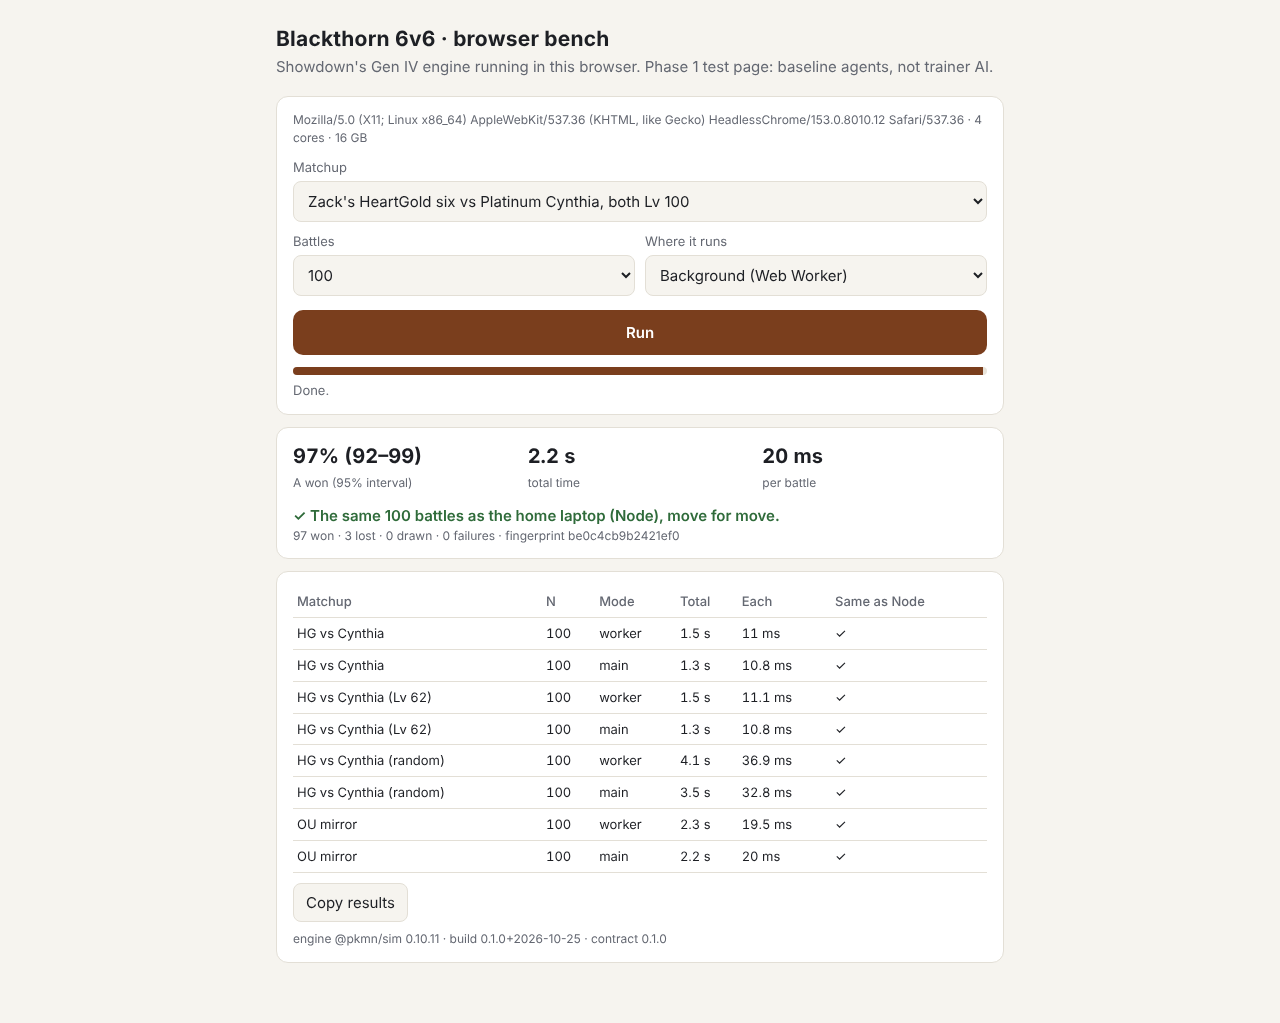
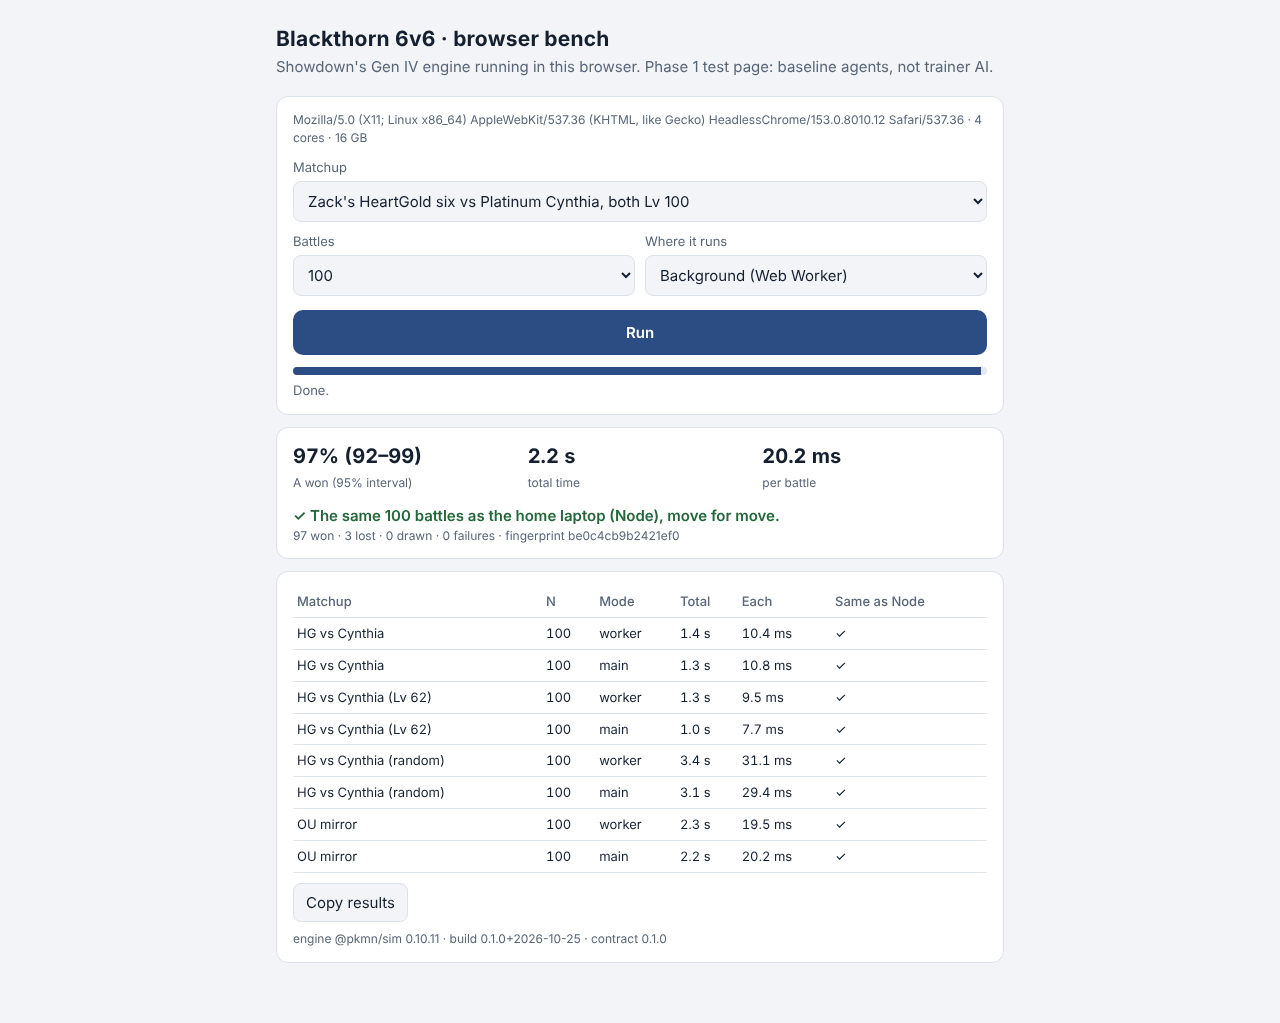
6v6 bench: a claude.ai copy that saves every device's runs; Blackthorn palette; final browser numbers
The bench page now builds a third variant for claude.ai with no document skeleton of its own. Where it runs
inside claude.ai, each run is saved to the page's store (collection "runs"), so phone and laptop results sit side
by side and a later session can read them. Anywhere else the page skips saving.

If a host frame refuses a Blob Web Worker, the page falls back to the main thread on its own. The palette is now
Blackthorn's dark rock and dragon blue, with a safe-area side gutter.

The report's performance table now matches the recorded perf.json from the final run (25 of 25 browser runs played
the same battles as Node).

Claude-Session: https://claude.ai/code/session_01SAhmrsq5oLobi656oPtX9A

diff --git a/sixvsix/browser/bench.html b/sixvsix/browser/bench.html
@@ -5,34 +5,36 @@
 <meta name="viewport" content="width=device-width, initial-scale=1">
 <title>6v6 Browser Bench</title>
 <style>
+/* Layout: one narrow column of cards; numbers in tabular figures. Palette: Blackthorn's dark rock and dragon blue. */
 :root {
-  --bg: #f6f4ef; --card: #ffffff; --ink: #1d1f24; --muted: #646872; --line: #e3dfd6; --accent: #7a3e1d;
-  --good: #2f6b3a; --bad: #a3312b; --bar: #e9e4da;
+  --bg: #f2f4f7; --card: #ffffff; --ink: #142030; --muted: #586677; --line: #dce2ea; --accent: #2b4d84;
+  --on-accent: #ffffff; --good: #22663a; --bad: #a3312b; --bar: #e3e8ef;
   color-scheme: light;
 }
 @media (prefers-color-scheme: dark) {
   :root:not([data-theme="light"]) {
-    --bg: #15161a; --card: #1e2026; --ink: #ecebe7; --muted: #a2a5ad; --line: #30333b; --accent: #e0a070;
-    --good: #7fc28b; --bad: #ef8a83; --bar: #2a2d34; color-scheme: dark;
+    --bg: #0e131a; --card: #171f29; --ink: #e6ebf2; --muted: #9aa6b4; --line: #283341; --accent: #8db1ec;
+    --on-accent: #0c1522; --good: #7cc394; --bad: #ef8a83; --bar: #232d3a; color-scheme: dark;
   }
 }
 :root[data-theme="dark"] {
-  --bg: #15161a; --card: #1e2026; --ink: #ecebe7; --muted: #a2a5ad; --line: #30333b; --accent: #e0a070;
-  --good: #7fc28b; --bad: #ef8a83; --bar: #2a2d34; color-scheme: dark;
+  --bg: #0e131a; --card: #171f29; --ink: #e6ebf2; --muted: #9aa6b4; --line: #283341; --accent: #8db1ec;
+  --on-accent: #0c1522; --good: #7cc394; --bad: #ef8a83; --bar: #232d3a; color-scheme: dark;
 }
 * { box-sizing: border-box; }
 body { margin: 0; background: var(--bg); color: var(--ink); font: 15px/1.45 system-ui, -apple-system, "Segoe UI", sans-serif; }
-main { max-width: 760px; margin: 0 auto; padding: 20px 16px 48px; }
-h1 { font-size: 21px; margin: 4px 0 2px; letter-spacing: .01em; }
+main { max-width: 760px; margin: 0 auto; padding-block: 20px 48px;
+  padding-left: max(16px, env(safe-area-inset-left, 0px)); padding-right: max(16px, env(safe-area-inset-right, 0px)); }
+h1 { font-size: 21px; margin: 4px 0 2px; letter-spacing: .01em; text-wrap: balance; }
+h2 { font-size: 15px; margin: 0 0 8px; }
 .sub { color: var(--muted); margin: 0 0 18px; }
 .card { background: var(--card); border: 1px solid var(--line); border-radius: 12px; padding: 14px 16px; margin: 12px 0; }
 label { display: block; font-size: 13px; color: var(--muted); margin: 0 0 4px; }
 select, button { font: inherit; color: inherit; }
 select { width: 100%; padding: 9px 10px; border-radius: 8px; border: 1px solid var(--line); background: var(--bg); }
 .row { display: grid; grid-template-columns: 1fr 1fr; gap: 10px; margin-top: 10px; }
-button.run { margin-top: 14px; width: 100%; padding: 12px; border: 0; border-radius: 10px; background: var(--accent); color: #fff; font-weight: 600; }
-@media (prefers-color-scheme: dark) { :root:not([data-theme="light"]) button.run { color: #1b120c; } }
-:root[data-theme="dark"] button.run { color: #1b120c; }
+button.run { margin-top: 14px; width: 100%; padding: 12px; border: 0; border-radius: 10px; background: var(--accent); color: var(--on-accent); font-weight: 600; cursor: pointer; }
+button:focus-visible, select:focus-visible { outline: 2px solid var(--accent); outline-offset: 2px; }
 button.run:disabled { opacity: .55; }
 .bar { height: 8px; border-radius: 4px; background: var(--bar); overflow: hidden; margin-top: 12px; }
 .bar > i { display: block; height: 100%; width: 0; background: var(--accent); transition: width .15s; }
@@ -90,6 +92,15 @@ button.copy { margin-top: 10px; padding: 8px 12px; border-radius: 8px; border: 1
     <button class="copy" id="copy">Copy results</button>
     <div class="small" id="build" style="margin-top:8px"></div>
   </div>
+
+  <div class="card" id="saved" hidden>
+    <h2>Every device's runs</h2>
+    <p class="small" style="margin:0 0 8px">Each run on any of your devices is saved here, so the phone and the laptop can be compared side by side.</p>
+    <div class="wrap"><table>
+      <thead><tr><th>Device</th><th>Matchup</th><th>N</th><th>Mode</th><th>Each</th><th>Same as Node</th></tr></thead>
+      <tbody id="savedRows"><tr><td colspan="6" class="small">No saved runs yet. Run one above and it appears here.</td></tr></tbody>
+    </table></div>
+  </div>
 </main>
 
 <script id="sixvsix-engine">/*__ENGINE__*/</script>
@@ -142,6 +153,7 @@ var BENCH = /*__BENCH__*/null;
       runs.push(row);
       show(result, row);
       $('status').textContent = 'Done.';
+      save(row);
       return row;
     };
     if (mode === 'worker') {
@@ -185,6 +197,39 @@ var BENCH = /*__BENCH__*/null;
      row.node_fingerprint ? (row.same_as_node ? '✓' : '✗') : '—'].forEach(function (v) { var td = document.createElement('td'); td.textContent = v; tr.appendChild(td); });
     tb.appendChild(tr);
   }
+
+  // Where the page runs inside claude.ai, each run is also saved to the page's own store (the db capability), so
+  // runs from every device show together and Claude can read them back. Anywhere else this does nothing.
+  var dbReady = (window.claude && typeof window.claude.use === 'function') ? window.claude.use('db').catch(function () { return null; }) : Promise.resolve(null);
+  function shortDevice(ua) {
+    var m = /iPhone|iPad|Android|Macintosh|Windows|Linux|CrOS/.exec(ua || '');
+    var b = /CriOS|Chrome|Firefox|FxiOS|Edg|Version\/[\d.]+ (Mobile\/\S+ )?Safari/.exec(ua || '');
+    return (m ? m[0] : 'device') + (b ? ' · ' + (b[0].indexOf('Safari') >= 0 ? 'Safari' : b[0].replace('CriOS', 'Chrome').replace('FxiOS', 'Firefox')) : '');
+  }
+  function save(row) {
+    dbReady.then(function (db) {
+      if (!db) return;
+      var doc = { at: new Date().toISOString(), build: SixVSix.BUILD, engine: SixVSix.ENGINE.version, device: row.device,
+                  device_short: shortDevice(row.device), cores: nav.hardwareConcurrency || null, memory_gb: nav.deviceMemory || null };
+      Object.keys(row).forEach(function (k) { if (k !== 'device') doc[k] = row[k]; });
+      return db.collection('runs').add(doc).then(function () { $('status').textContent = 'Done. Saved to this page.'; });
+    }).catch(function () { $('status').textContent = 'Done. (Not saved: this view can\'t write to the page.)'; });
+  }
+  dbReady.then(function (db) {
+    if (!db) return;
+    $('saved').hidden = false;
+    db.collection('runs').orderBy('at', 'desc').limit(60).onSnapshot(function (snap) {
+      var tb = $('savedRows');
+      tb.innerHTML = '';
+      if (snap.empty) { tb.innerHTML = '<tr><td colspan="6" class="small">No saved runs yet. Run one above and it appears here.</td></tr>'; return; }
+      snap.docs.forEach(function (d) {
+        var r = d.data(), tr = document.createElement('tr');
+        [r.device_short || 'device', (BENCH.presets[r.preset] || {}).short || r.preset, r.n, r.mode, r.per_battle_ms + ' ms',
+         r.same_as_node ? '✓' : '✗'].forEach(function (v) { var td = document.createElement('td'); td.textContent = v; tr.appendChild(td); });
+        tb.appendChild(tr);
+      });
+    }, function () {});
+  });
 
   $('run').addEventListener('click', function () { run().catch(function () {}); });
   $('copy').addEventListener('click', function () {

diff --git a/sixvsix/docs/TEST_REPORT.md b/sixvsix/docs/TEST_REPORT.md
@@ -144,14 +144,15 @@ Each folder has the whole result (`result.json`), a summary, the first battle as
 | Where | Build | 100 battles, max-power (ms per battle) | 100 battles, random (ms per battle) |
 |---|---|---|---|
 | Node 22 (this container) | — | 1.4–1.8 s (14–18) | 5.0 s (50) |
-| Chromium desktop, Web Worker | full / battle-only | 1.2–1.6 s (11–12) | 3.6–4.1 s (35–37) |
-| Chromium desktop, main thread | full / battle-only | 1.3–1.4 s (11–12) | 3.5 s (33) |
-| Phone-like, CPU 4× slower, main thread | battle-only | 5.2 s (48) | 15.9 s (155) |
-| Phone-like, CPU 6× slower, main thread | battle-only | 8.6 s (81) | 23.8 s (232) |
-| Apps-Script-style frame, worker and main thread | both | 1.3–1.4 s (11–12) | — |
+| Chromium desktop, Web Worker | full / battle-only | 1.2–1.4 s (10–12) | 3.4 s (31–33) |
+| Chromium desktop, main thread | full / battle-only | 1.0–1.5 s (8–12) | 3.1 s (29) |
+| Phone-like, CPU 4× slower, main thread | battle-only | 6.1 s (58) | 14.9 s (145) |
+| Phone-like, CPU 6× slower, main thread | battle-only | 8.7 s (82) | 21.8 s (213) |
+| Apps-Script-style frame, worker and main thread | both | 1.2–1.5 s (10–13) | — |
 
-- **Page start:** 0.42 s for the full build and 0.16 s for the battle-only build on desktop; 0.57–0.78 s throttled.
-- **Sizes:** full build 6.31 MB, battle-only 2.03 MB, bench page 2.10 MB.
+- **Page start:** 0.42 s for the full build and 0.17 s for the battle-only build on desktop; 0.55–0.82 s throttled.
+- **Run to run:** timings move by 10–20% between runs on the same machine; `results/browser/perf.json` has this run's numbers.
+- **Sizes:** full build 6.31 MB, battle-only 2.03 MB, bench page 2.11 MB.
 - **What the phone-like rows are.** Chromium's CPU throttle slows the page's own thread; a Web Worker runs
   unthrottled. So the phone-like *worker* times in `perf.json` say nothing about a phone, and the main-thread rows are
   the proxy. A recent iPhone's single core is at least as fast as this container's, so these rows are probably
@@ -159,11 +160,16 @@ Each folder has the whole result (`result.json`), a summary, the first battle as
 
 ## Not yet verified
 
-1. **A real iPhone and Safari.** The bench page is built for it. `appscript/INSTALL.txt` sets up a throwaway Apps
-   Script project to try it on your phone and work laptop; "Copy results" gives the numbers back.
+1. **A real iPhone and Safari.** The bench page is built for it, in two forms:
+   - **On claude.ai (no setup):** the bench is published privately at
+     <https://claude.ai/artifact/P99Ya1tigXw3YnRedKvQNM>. Open it on the phone and the work laptop and run 100
+     battles. Each run is saved to the page's own store (collection `runs`), so the devices sit side by side and a
+     later session can read them with `ArtifactData`.
+   - **In Apps Script:** `appscript/INSTALL.txt` sets up a throwaway Apps Script project. "Copy results" gives the
+     numbers back.
 2. **A real Apps Script deployment.** The frame test copies Apps Script's structure (sandboxed, cross-origin, the page
    written into an inner frame), but not Google's actual limits. Unknowns: the largest page `createHtmlOutput` accepts
-   (the bench page is 2.1 MB), and whether the real sandbox allows Blob Web Workers. The page falls back to the main
+   (the bench page is 2.11 MB), and whether the real sandbox allows Blob Web Workers. The page falls back to the main
    thread on its own if it doesn't.
 3. **Cartridge fidelity beyond Showdown.** The mechanics tests pin Showdown's Gen 4 behaviour against Gen 4 facts. The
    damage tests compare it with an independent implementation. Neither is a fresh audit against the games'

diff --git a/sixvsix/README.md b/sixvsix/README.md
@@ -26,6 +26,10 @@ node cli/make-fixtures.mjs                 # rebuild fixtures/ from the Trainer 
 
 A job can also be a JSON file in the contract's shape: `node cli/run.mjs my-job.json`.
 
+**On a phone, with no setup:** the bench page is published privately at
+<https://claude.ai/artifact/P99Ya1tigXw3YnRedKvQNM>. Every run is saved there, from any device, and checked against
+Node's battles.
+
 ## What's where
 
 | Path | What it is |
@@ -41,7 +45,7 @@ A job can also be a JSON file in the contract's shape: `node cli/run.mjs my-job.
 | `src/analyze.js` | Per-Pokémon contribution and knockout credit |
 | `src/batch.js`, `src/stats.js` | Jobs → results: seeds, mirrored pairs, the Wilson interval, failures, timing |
 | `cli/` | `run.mjs`, `battle.mjs`, `make-fixtures.mjs`, the presets and a readable log printer |
-| `browser/` | The bundle entry, the bench page, the build and the Playwright test |
+| `browser/` | The bundle entry, the bench page (standalone, Apps Script and claude.ai variants come out of one template), the build and the Playwright test |
 | `appscript/` | A throwaway Apps Script project that serves the bench page (`INSTALL.txt`), separate from the Canon DB script |
 | `fixtures/` | Zack's HeartGold six and Platinum Cynthia (from the library, both lenses), a Gen 4 OU sample team, profiles |
 | `results/` | Four recorded 100-battle jobs and the browser performance run |
